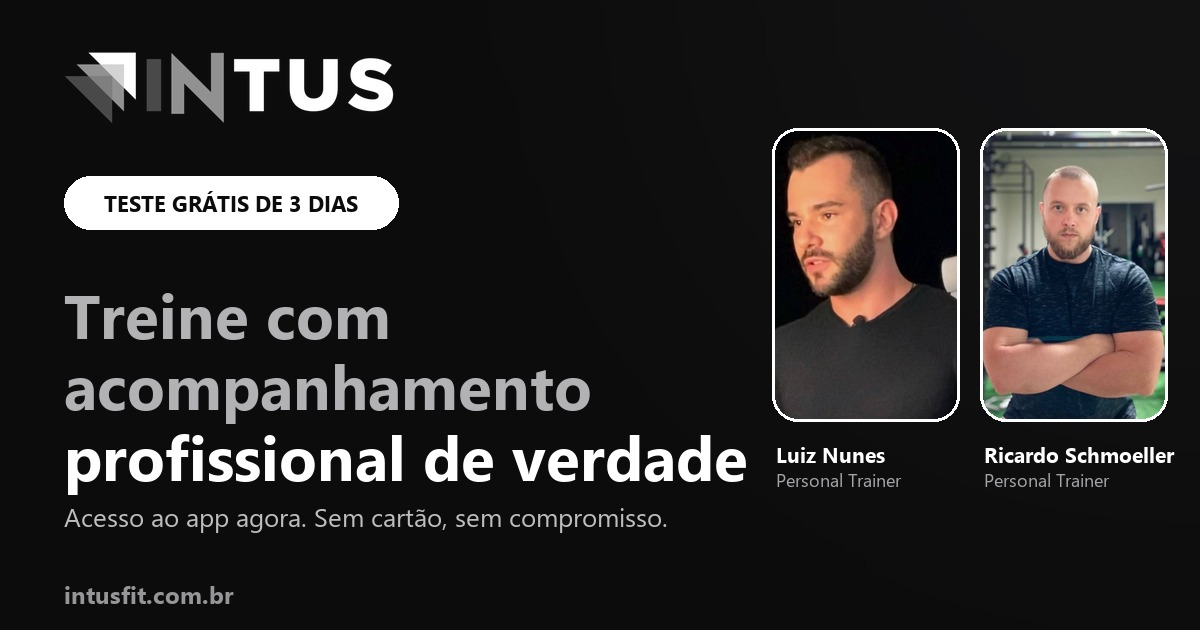
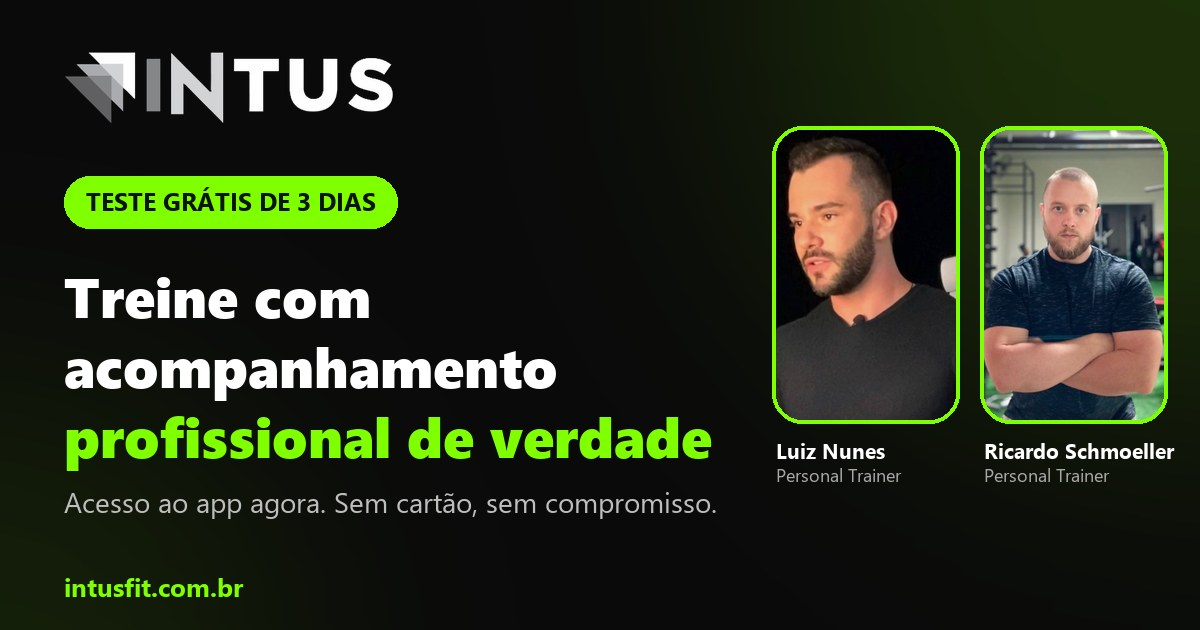
Imagem de compartilhamento do teste grátis volta à versão com destaques em verde

diff --git a/teste-gratis.html b/teste-gratis.html
@@ -16,7 +16,7 @@
 <meta property="og:url" content="https://intusfit.com.br/teste-gratis.html">
 <meta property="og:title" content="Teste grátis de 3 dias · Intus Fit">
 <meta property="og:description" content="Treine 3 dias com ficha prescrita e acompanhada por um profissional de verdade. Acesso ao app agora, sem cartão e sem compromisso.">
-<meta property="og:image" content="https://intusfit.com.br/marca/og/teste-gratis.jpg?v=20261121a">
+<meta property="og:image" content="https://intusfit.com.br/marca/og/teste-gratis.jpg?v=20261121b">
 <meta property="og:image:type" content="image/jpeg">
 <meta property="og:image:width" content="1200">
 <meta property="og:image:height" content="630">
@@ -25,7 +25,7 @@
 <meta name="twitter:card" content="summary_large_image">
 <meta name="twitter:title" content="Teste grátis de 3 dias · Intus Fit">
 <meta name="twitter:description" content="Treine 3 dias com ficha prescrita e acompanhada por um profissional de verdade. Sem cartão e sem compromisso.">
-<meta name="twitter:image" content="https://intusfit.com.br/marca/og/teste-gratis.jpg?v=20261121a">
+<meta name="twitter:image" content="https://intusfit.com.br/marca/og/teste-gratis.jpg?v=20261121b">
 <link rel="preconnect" href="https://fonts.googleapis.com">
 <link rel="preconnect" href="https://fonts.gstatic.com" crossorigin>
 <link href="https://fonts.googleapis.com/css2?family=Inter:wght@400;500;600;700;800;900&display=swap" rel="stylesheet">
